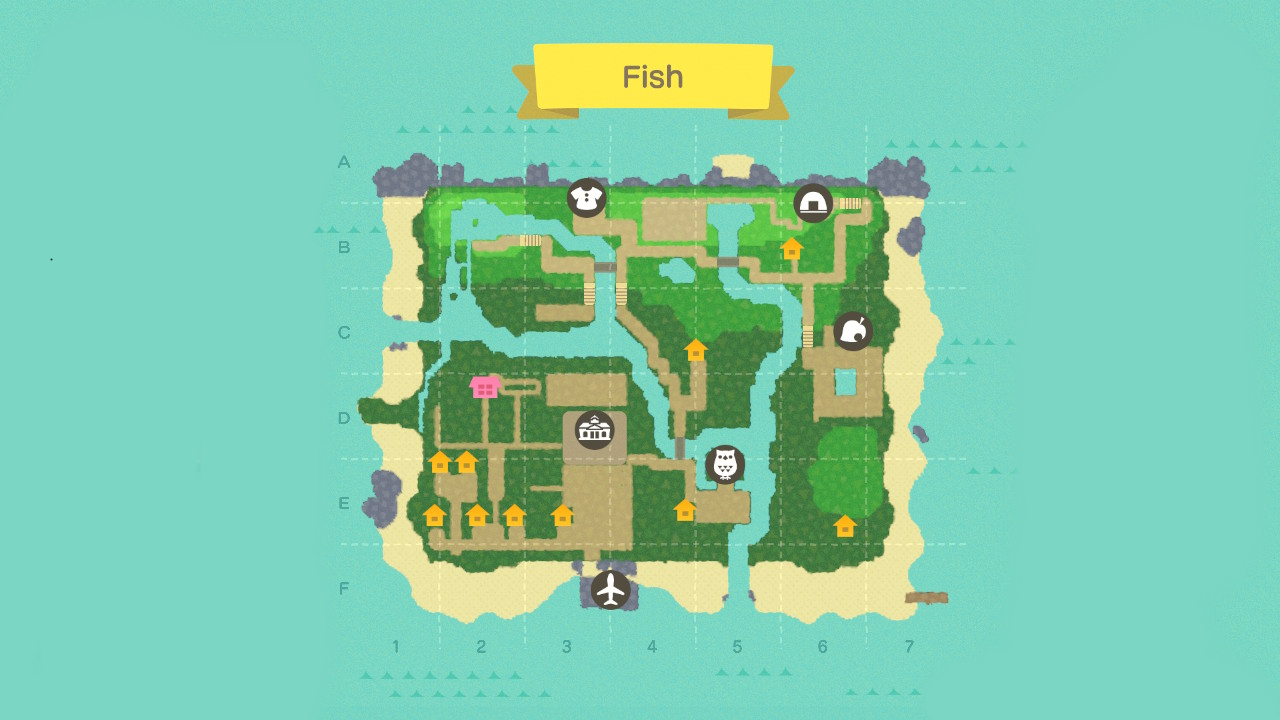
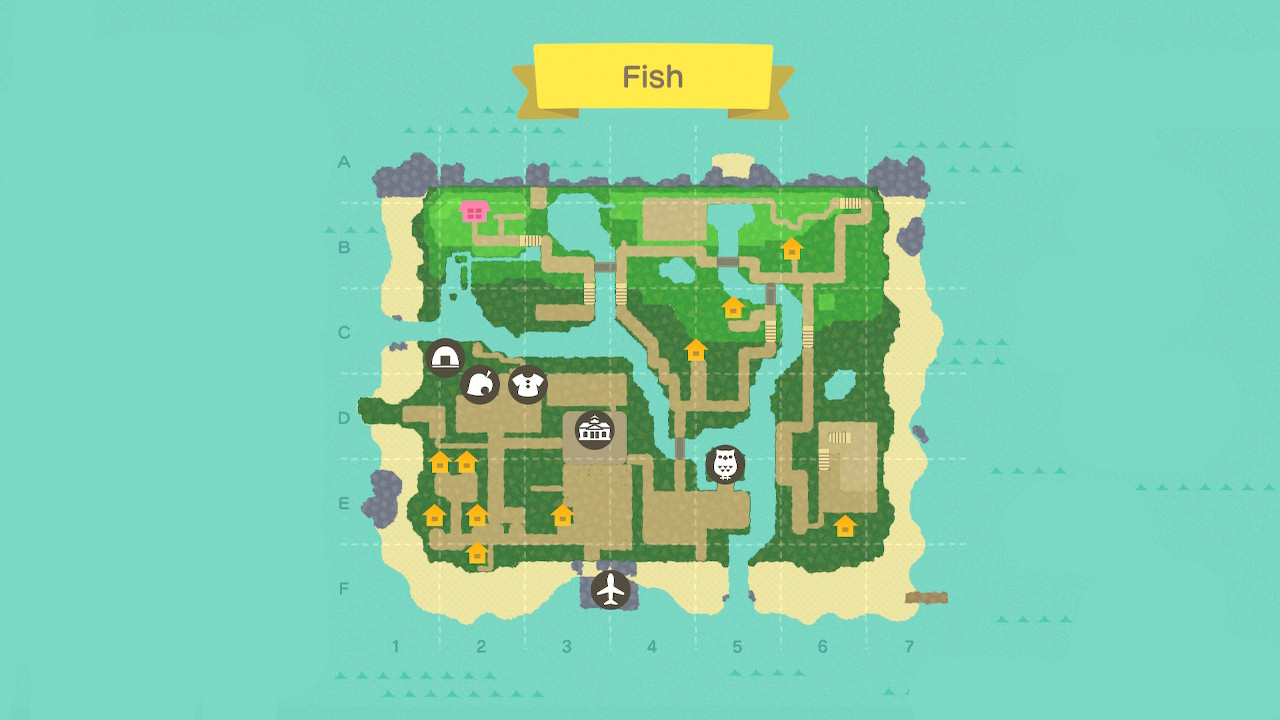
Updated the map.png and the text

diff --git a/index.html b/index.html
@@ -37,7 +37,7 @@
 		<h1>Welcome to Fish!</h1>
 		<p>Fish is an island in <a href="http://www.animal-crossing.com/new-horizons/">Animal Crossing: New Horizons</a></p>
 		
-		<p>Fish's rating is ★★★★☆</p>
+		<p>Fish's rating is ★★★★★</p>
 		<div id="map">
 		<img src="img/map.png" width=100% id="map">
 		</div>
@@ -60,7 +60,7 @@
 
 			</tr>
 			<tr>
-				<td id="villagerlist">Anabelle</td>
+				<td id="villagerlist"><del>Anabelle</del></td>
 
 			</tr>
 			<tr>
@@ -80,7 +80,7 @@
 
 			</tr>
 			<tr>
-				<td id="villagerlist">Bubbles</td>
+				<td id="villagerlist">Pippy</td>
 
 			</tr>
 			<tr>
@@ -88,22 +88,41 @@
 
 			</tr>
 		</table>
-
+		<div id="video">
+		<img src="https://pbs.twimg.com/media/EVQaBIWUwAIsSQb?format=jpg&name=large" title="The Town Hall" align="center" width=560 id="screenshot"><p>The Town Hall</p>
+		</div>
+		<h1>Story</h1>
+		Fish was discovered on March 20th 2020 by <a href="https://20captainx12.uk">Xander</a>. It became a British Overseas Territory, but it's discovery was not announced to the rest of the world due to the fact that
+		the island has an abudance of resources, notably talking animals, trees that grow money and rocks which can spit out money or infinite resources. The fear was that the <a href="https://en.wikipedia.org/wiki/United_States">United States of America</a> would find out about Fish and
+		find some way to "enforce democracy".<br>
+		His Excellency Xander was appointed Governor of Fish from then on. The flag of Fish is the sky-blue ensign shown below.<br>
+		<img src="img/fishflag.png" width=300px>
+		<br>
+		Now you may be thinking: If this island is a secret, then why is it published on the internet?
+		<br><br>
+		Well, good reader. I have taken two measures to ensure the security of Fish.
+		<br>
+		<br>
+		1. The text on this website is written in English(UK), so anyone who isn't from the United Kingdom cannot read this.
+		<br>
+		2. I have an SSL certificate. The fox that sold me this for 400,000 bells told me it would make the website secure.
+		<br>
+		<br>
+		So we are perfectly safe.
+		
 		</div>
 <hr>
 		<!-- Visiting section -->
 		<div id="visiting">
 		<h1>Visiting</h1>
-		<p>We are unsure about events in Fish at this time. Fish is still in the development phase, but we hope to hope events within the next few months.</p>
 		<p>If you are interested, feel free to contact me from any of the social media provided <a href="http://20captainx12.uk">on my site.</a>
-		<p>I hope that I will establish an event plaza, which is in direct route from the airport. I hope to make it very pretty and presentable, but this might take months to be finished.</p>
-		<p>Your patience is appreciated :)</p>
-		<p>Fish has yet to be opened to the public.</p>
+		<!-- <img src="https://pbs.twimg.com/media/EVQaBH0UcAAg96A?format=jpg&name=large" title="The Campsite" align="center" width=560 id="screenshot"> -->
 		<p>Fish's official language is English(UK)</p>
 		<p>There are no documented cases of COVID-19 in Fish. (This joke aged badly)</p>
-		<p>Fish does not offer medical insurance.</p>
-		<p>Fish is currently an unrecognised nation state which doesn't have any diplomatic relations with other islands.</p>
+		<p>Fish does not offer medical insurance, or any other healthcare facilities for that matter.</p>
+		<p>Fish is a secret territory administered by the <a href="https://gov.uk">United Kingdom</a> with His Excellency <a href="https://20captainx12.uk">Xander</a> as governor.</p>
 		<p>Fish won't eat you.</p>
+		<!-- <img src="https://pbs.twimg.com/media/EVQaBIVU8AgGrrF?format=jpg&name=large" title="The General store" align="center" width=560 id="screenshot"><img src="https://pbs.twimg.com/media/EVQaBICVAAAR_hD?format=jpg&name=large" title="The Tailor shop" align="center" width=560 id="screenshot"> -->
 		
 		</div>
 	<hr>
